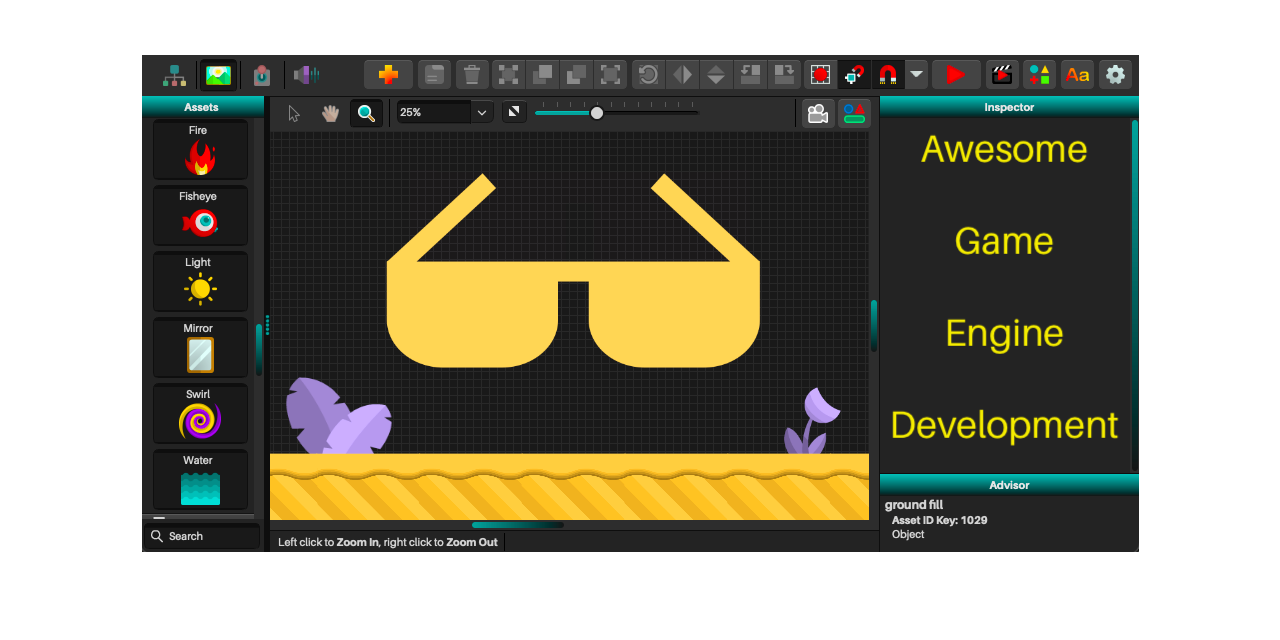
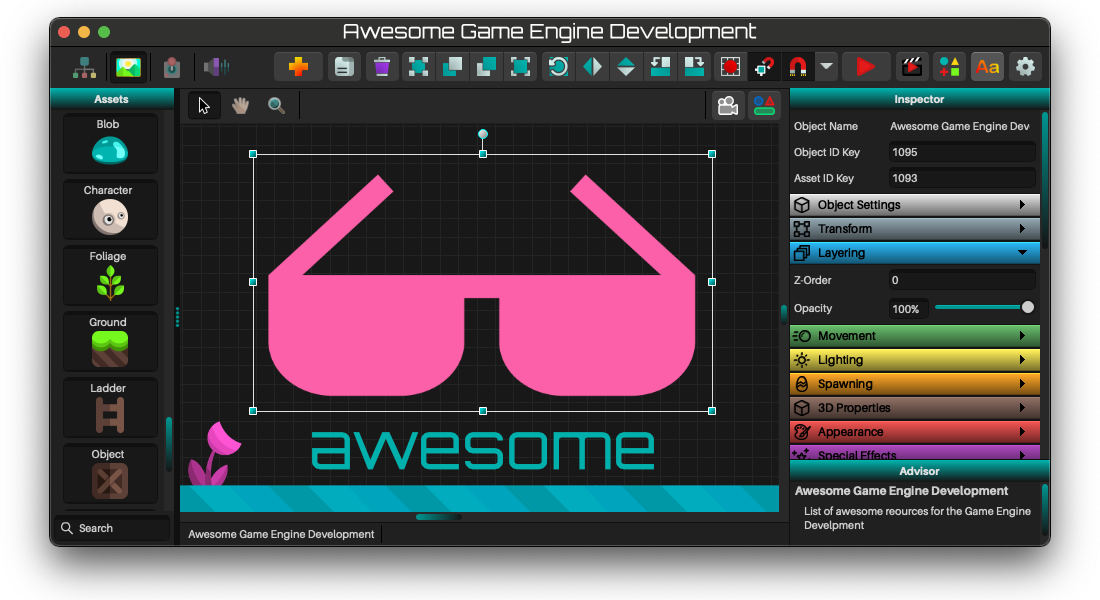
Update title image

diff --git a/README.md b/README.md
@@ -1,10 +1,14 @@
+<h1 align="center">
+    <img width="1100" src="aged-title.png" alt="Awesome Game Engine Dev Logo"/>
+</h1>
+
 # Awesome Game Engine Development [![Awesome](https://awesome.re/badge-flat.svg)](https://awesome.re)
 
-> A list of awesome assets, libraries, and tools geared toward Game Engine Development. Specifically high-level, fully featured game engines which would include things typically not included in a low-level game engine such as a visual editor, scipting support, physics integration, etc. Emphasis on C/C++, Javascript, and Haxe.
+> A list of awesome assets, libraries, and tools geared toward Game Engine Development. Specifically with an eye towards high-level, fully featured game engines (e.g., [Godot](https://godotengine.org) / [Unity](https://unity.com)). This includes things typically not found in a low-level game engine, game framework, or graphics library (e.g., [MonoGame](https://www.monogame.net) / [SDL](https://www.libsdl.org)). Most importantly a visual editor, but also things such as scipting support, physics integration, special effects, etc. This list currently favors programming core engine functionality in the following languages: C/C++, C#, Haxe, or Javascript. Of course, a game engine could be designed in [any language](https://en.wikipedia.org/wiki/List_of_programming_languages)!
 
 <br>
 
-### NOTE: This list is still being written, this is just a draft. Contributions will be welcome when draft is complete, but are currently not accepted.
+### NOTE: This list is under development, it is still in draft state. Contributions will be welcome when the draft is complete, but are currently not accepted.
 
 <br>
 
@@ -68,7 +72,7 @@ _Helpful resources for game development_
     - :earth_americas: [itch.io](https://itch.io) : Platform to host, showcase, promote, buy and sell games and game development resources.
 
 ## Game Engines
-_Production game engines to explore, learn and inspire_
+_Production game engines to tinker with, explore, learn and inspire_
 - ### Popular
     - :tada: [Godot](https://godotengine.org) [:octocat:](https://github.com/godotengine/godot#readme) : Feature-packed, open source engine. Excellent! [[Awesome Godot](https://github.com/godotengine/awesome-godot#readme)]
     - :money_with_wings: [Unity](https://unity.com) : Sets the bar for Game Engines. [[Awesome Unity](https://github.com/RyanNielson/awesome-unity)]
